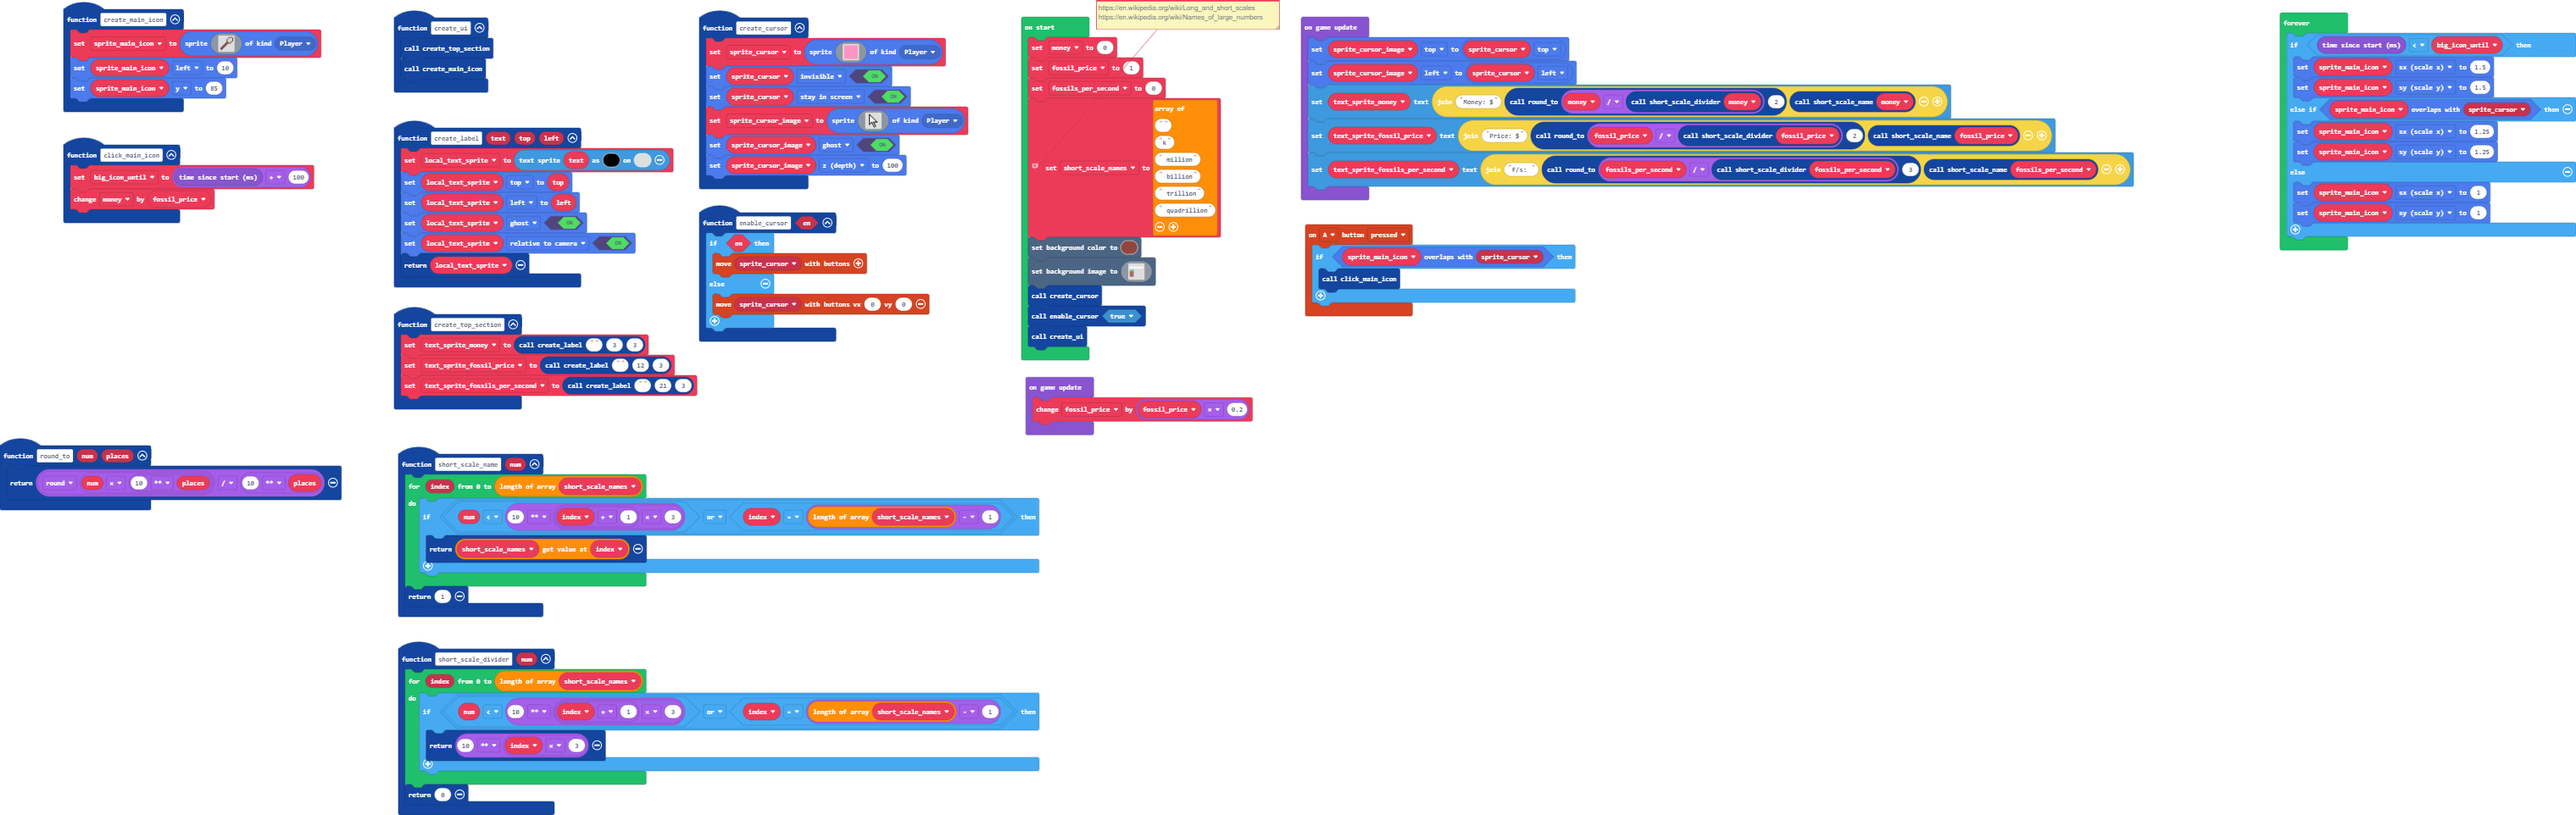
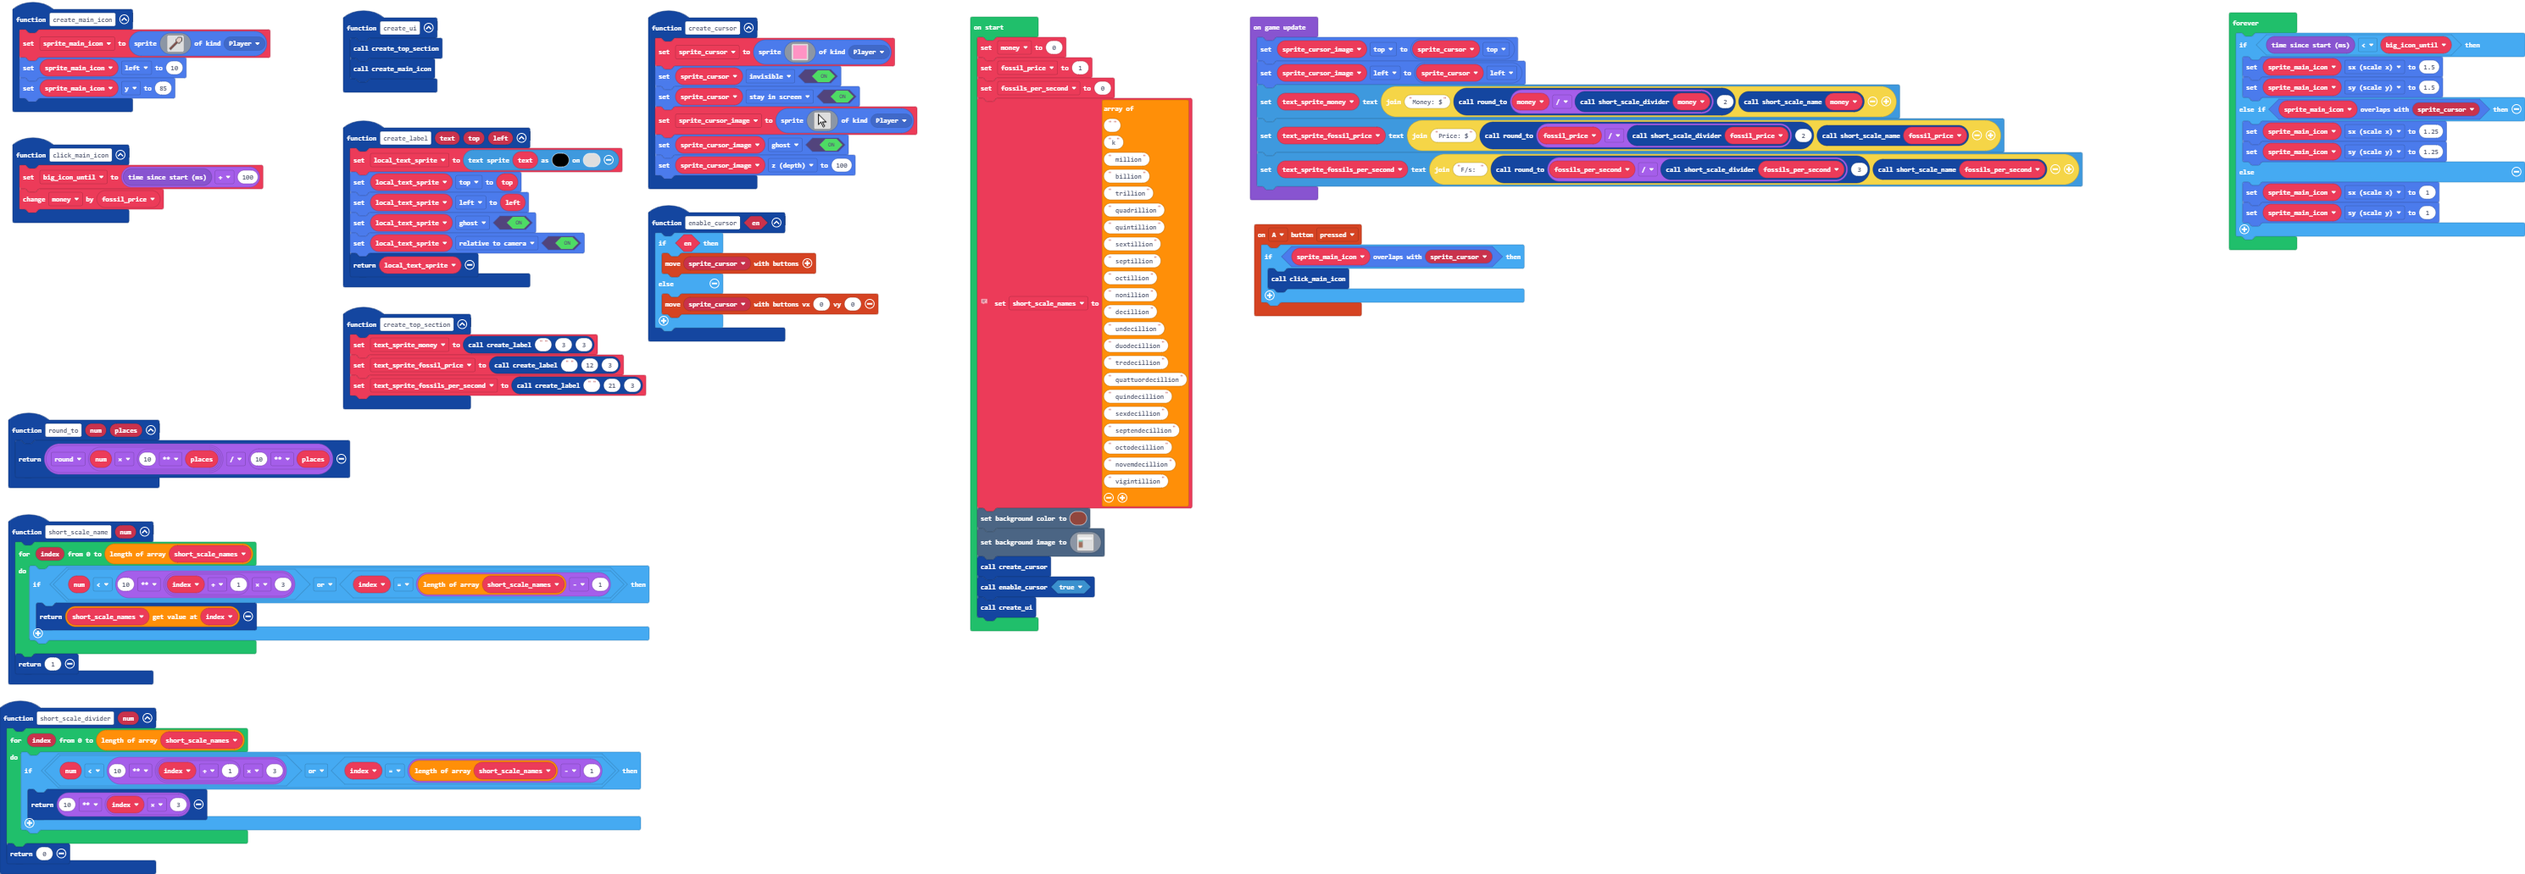
Short scale names

Changed region(s): [[0.0, 0.0, 0.8429, 1.0], [0.8741, 0.0, 1.0, 0.3119]]

diff --git a/main.ts b/main.ts
@@ -84,7 +84,23 @@ short_scale_names = [
 " million",
 " billion",
 " trillion",
-" quadrillion"
+" quadrillion",
+" quintillion",
+" sextillion",
+" septillion",
+" octillion",
+" nonillion",
+" decillion",
+" undecillion",
+" duodecillion",
+" tredecillion",
+" quattuordecillion",
+" quindecillion",
+" sexdecillion",
+" septendecillion",
+" octodecillion",
+" novemdecillion",
+" vigintillion"
 ]
 scene.setBackgroundColor(14)
 scene.setBackgroundImage(assets.image`background`)
@@ -97,9 +113,6 @@ game.onUpdate(function () {
     text_sprite_money.setText("Money: $" + round_to(money / short_scale_divider(money), 2) + short_scale_name(money))
     text_sprite_fossil_price.setText("Price: $" + round_to(fossil_price / short_scale_divider(fossil_price), 2) + short_scale_name(fossil_price))
     text_sprite_fossils_per_second.setText("F/s: " + round_to(fossils_per_second / short_scale_divider(fossils_per_second), 3) + short_scale_name(fossils_per_second))
-})
-game.onUpdate(function () {
-    fossil_price += fossil_price * 0.2
 })
 forever(function () {
     if (game.runtime() < big_icon_until) {
